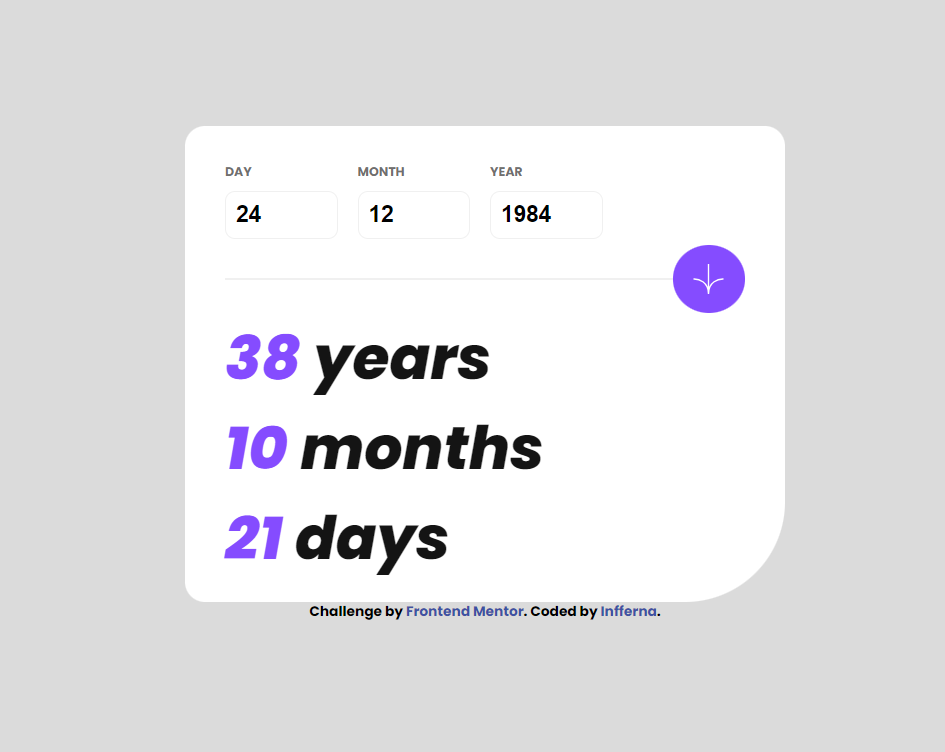
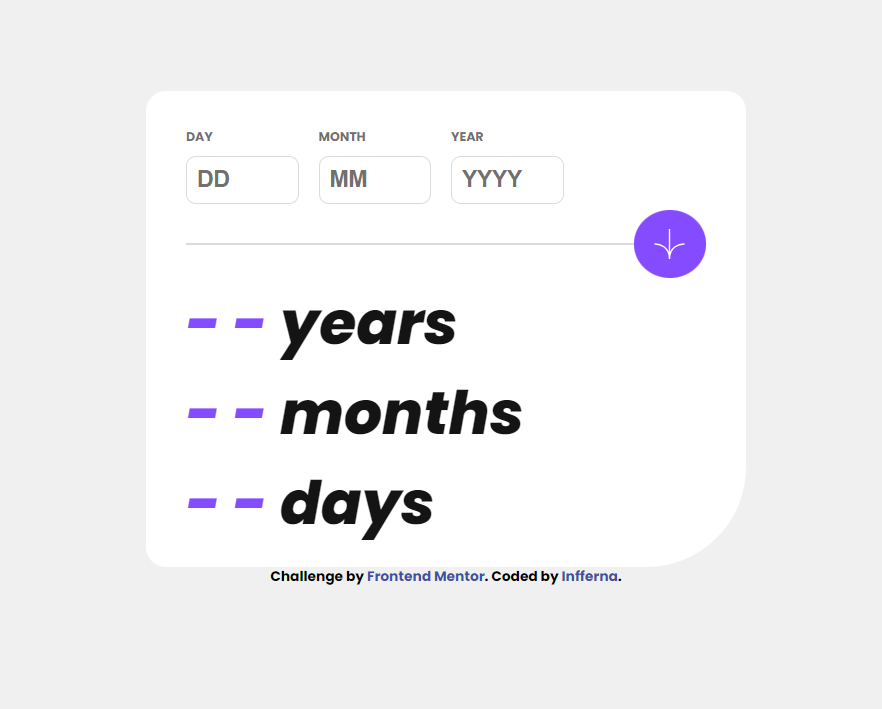
Fixed design issue

diff --git a/style.css b/style.css
@@ -20,7 +20,7 @@
 }
 
 body {
-  background-color: var(--light-grey);
+  background-color: var(--off-white);
   display: flex;
   flex-direction: column;
   justify-content: center;
@@ -77,7 +77,7 @@ article:first-of-type {
 }
 
 .normal {
-  border: 1px solid var(--off-white);
+  border: 1px solid var(--light-grey);
 }
 
 .error {
@@ -115,7 +115,7 @@ article:nth-child(2) {
 article:nth-child(2) hr {
   flex-grow: 1;
   height: 1px;
-  background-color: var(--off-white);
+  background-color: var(--light-grey);
   border: none;
 }
 
@@ -211,7 +211,7 @@ article:last-of-type section p {
   }
 
   article:nth-child(2) hr {
-    background-color: var(--off-white);
+    background-color: var(--light-grey);
     height: 1px;
     width: 80%;
     position: absolute;
